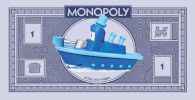
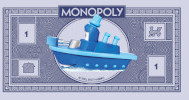
no grid lines

diff --git a/src/picador/picador.css b/src/picador/picador.css
@@ -1,6 +1,17 @@
 #gameBoard{
     -fx-background-image: url("../images/monopoly-board-690.png");
+    -fx-background-position:center;
+    -fx-border-color: #ddd;
+    -fx-border-width:10px;
 }
 #table{
     -fx-background-image: url("../images/wood.jpg");
+}
+
+#dogMoney, #catMoney, #carMoney, #boatMoney{
+    -fx-font-size:20;
+}
+
+#card{
+    -fx-background-color:white;
 }

diff --git a/src/picador/Controller.java b/src/picador/Controller.java
@@ -1,5 +1,85 @@
 package picador;
 
-public class Controller {
+import javafx.animation.PauseTransition;
+import javafx.geometry.Rectangle2D;
+import javafx.scene.control.TextField;
+import javafx.scene.image.ImageView;
+import javafx.scene.input.MouseEvent;
+import javafx.scene.layout.FlowPane;
+import javafx.scene.layout.VBox;
+import javafx.scene.media.AudioClip;
+import javafx.scene.text.Text;
+import javafx.util.Duration;
 
+public class Controller{
+
+    // Dice
+    AudioClip dice = new AudioClip(getClass().getResource("dice.wav").toExternalForm());
+    PauseTransition waitForIt = new PauseTransition(Duration.millis(1050));
+    public ImageView diceViewA, diceViewB;
+
+    public void rolldice(MouseEvent mouseEvent) {
+        int a = (int) (Math.random() * 6 + 1);
+        int b = (int) (Math.random() * 6 + 1);
+        int diceShifterA = a * 100 - 100;
+        int diceShifterB = b * 100 - 100;
+        diceViewA.setViewport(new Rectangle2D(600, 0, 100, 170));
+        diceViewB.setViewport(new Rectangle2D(600, 0, 100, 170));
+        System.out.println("dice clicked!");
+        dice.play();
+        waitForIt.setOnFinished(e -> {
+            diceViewA.setViewport(new Rectangle2D(diceShifterA, 0, 100, 170));
+            diceViewB.setViewport(new Rectangle2D(diceShifterB, 0, 100, 170));
+        });
+        waitForIt.play();
+    }
+
+    // Set piece on board
+    public void setPiece(Player player, Field field){
+    }
+
+    // Show text (cards, buy-button and other text in centre of board)
+    public VBox messages = new VBox();
+    Text message;
+    public FlowPane card;
+
+    public void showText(String text){
+        message = new Text("aaaaaaaaaaaaaaaaaaaaaaaaaaaaaaaaaaaaaaaaaaaaaaaaaaaaaaaaaggg\n" +
+                "ggggggggggggkfgjkfgjfkgjfffffffffffffffffffffffff\n" +
+                "sssssssssssssssssssssssssssssssssssssssssssssssssssssssssssss\nm\nb\nkkk");
+        card = new FlowPane(message);
+    }
+
+    // When someone clicked the button
+    public void buttonClick(){
+        // Action depends on situation buy, pay or just OK.
+    }
+
+    // Set account info for players (monopoly money)
+    public TextField dogMoney, catMoney, carMoney, boatMoney;
+
+    public void setMoney(String playerName, int fortune){
+        if (playerName.equals("dog")){
+            dogMoney.setText(Integer.toString(fortune));
+        } else if (playerName.equals("cat")){
+            catMoney.setText(Integer.toString(fortune));
+        } else if (playerName.equals("car")){
+            carMoney.setText(Integer.toString(fortune));
+        }else if (playerName.equals("boat")){
+            boatMoney.setText(Integer.toString(fortune));
+        } else {
+            System.out.println("Error. Player unknown.");
+        }
+    }
+
+
+    // Set "owned by"-token
+    public void setOwned(Player player, int field){
+
+        switch (field){
+            // Field needs a name that corresponds with fxml. Start = 0.
+            // Place player image on field
+        }
+
+    }
 }

diff --git a/src/picador/Main.java b/src/picador/Main.java
@@ -14,7 +14,9 @@ public class Main extends Application {
         Parent root = FXMLLoader.load(getClass().getResource("picador.fxml"));
         primaryStage.setTitle("PICADOR the board game");
         primaryStage.setScene(new Scene(root));
-        primaryStage.setFullScreen(true);
+        primaryStage.setMinWidth(1024);
+        primaryStage.setMinHeight(710);
+        primaryStage.setMaximized(true);
         primaryStage.show();
     }
 

diff --git a/src/picador/Game.java b/src/picador/Game.java
@@ -1,0 +1,13 @@
+package picador;
+
+public class Game {
+
+    public static void main(String[] args){
+
+        Player dog = new Player();
+        Player cat = new Player();
+        Player car = new Player();
+        Player boat = new Player();
+
+    }
+}

diff --git a/src/picador/Player.java b/src/picador/Player.java
@@ -1,0 +1,15 @@
+package picador;
+
+public class Player {
+    String name;
+
+    public Player(){
+
+    }
+
+
+
+    public String getname(){
+        return name;
+    }
+}

diff --git a/src/picador/Field.java b/src/picador/Field.java
@@ -1,0 +1,10 @@
+package picador;
+
+public class Field {
+    String name;
+    String coordinates;
+
+    public Field(String name, String coordinates){
+
+    }
+}
